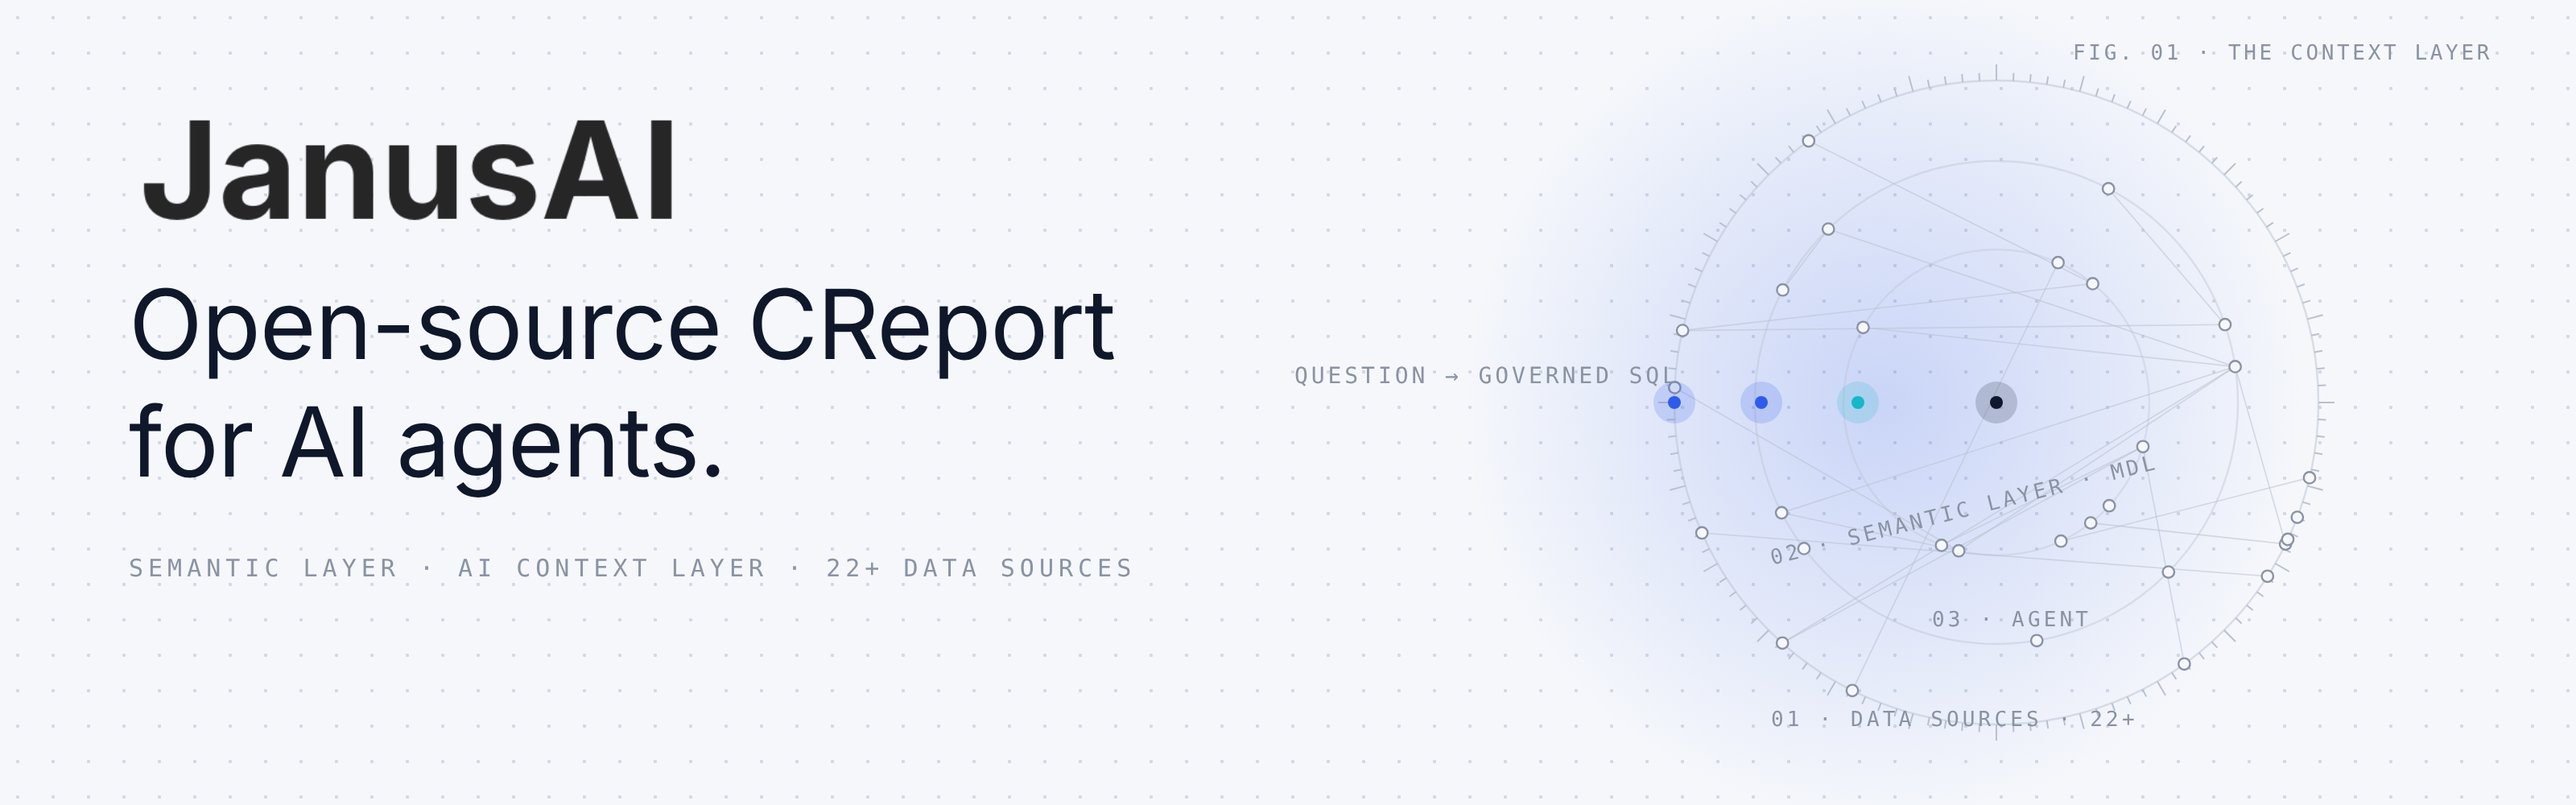
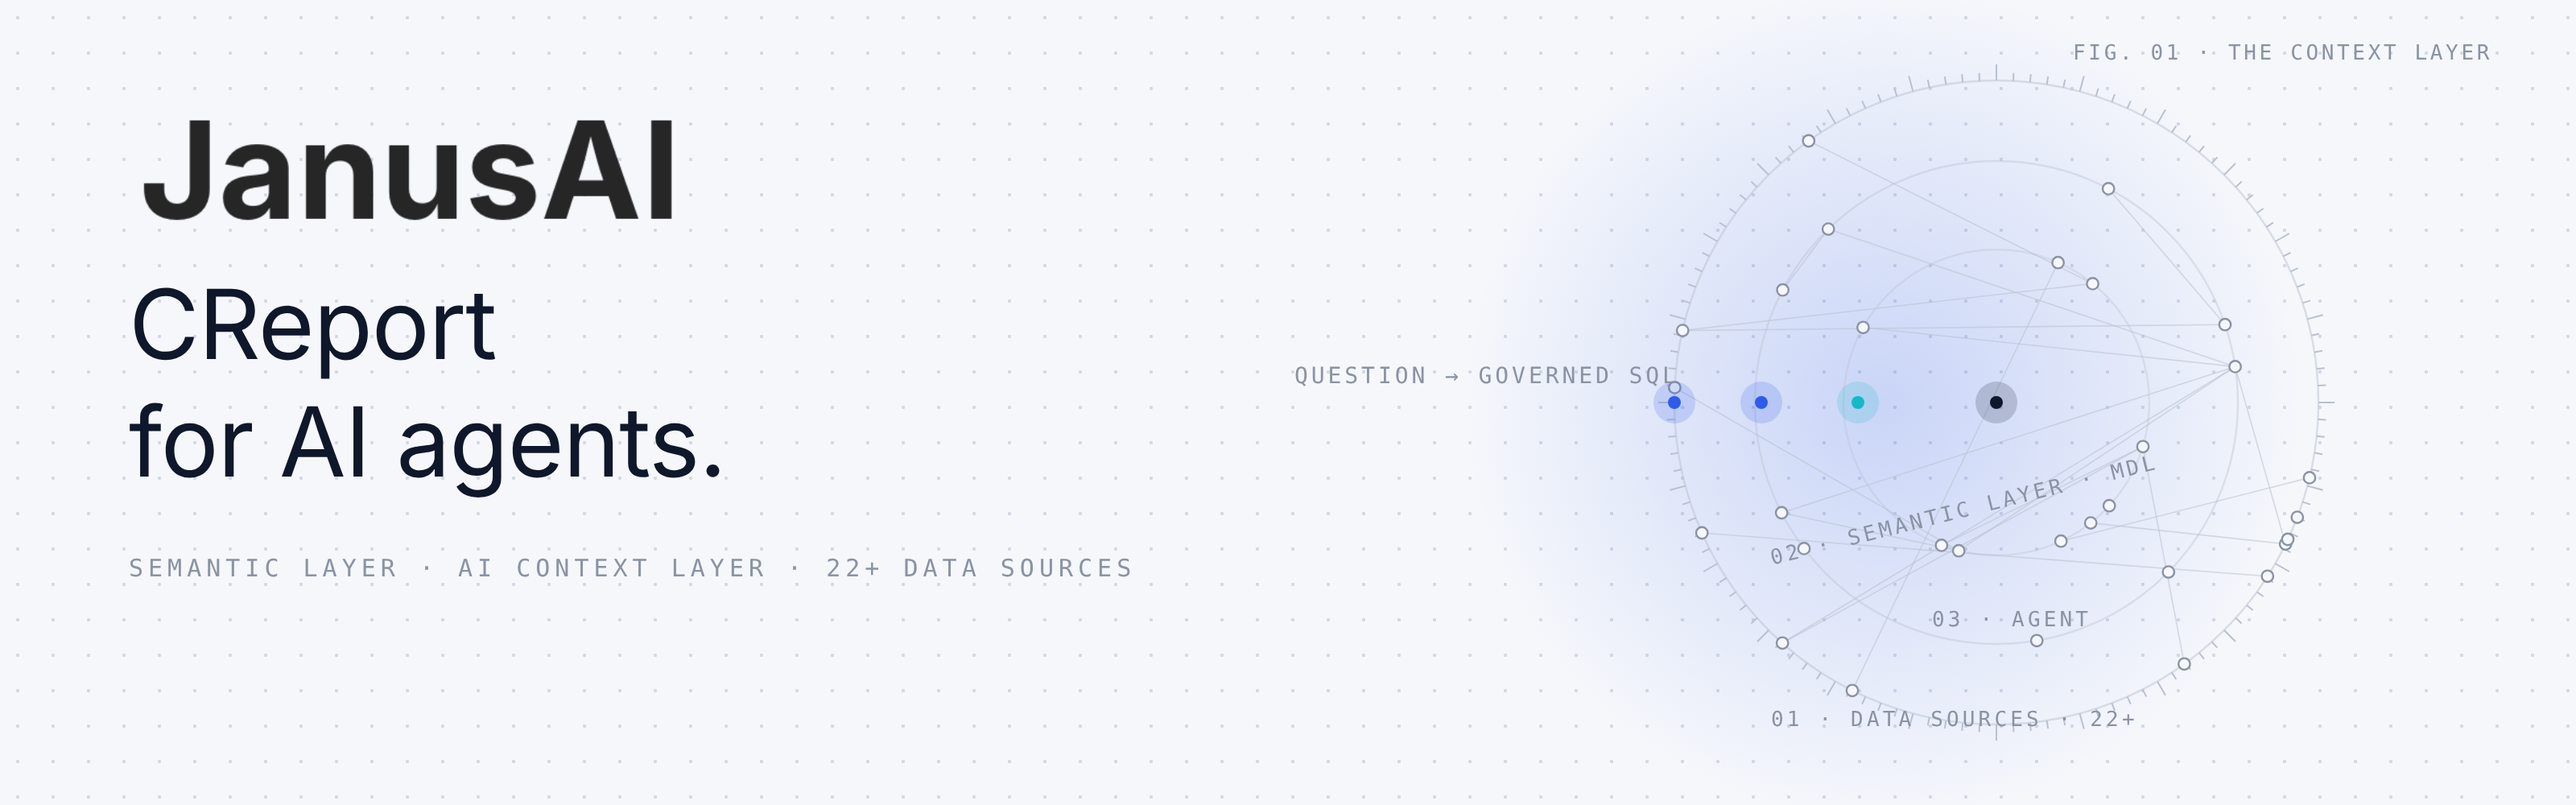
docs: remove open-source wording from text and README images
Drop open-source from the READMEs, docs, agent taglines, and the CLAUDE project
summary. Rename the open-source vs commercial page's edition to Community.
Regenerate the README banner and architecture images and the draw.io source
without the open-source footer and tagline.

Claude-Session: https://claude.ai/code/session_01BkXiZyAvrb5AEnaFz3NP9n

Changed region(s): [[0.0625, 0.341, 0.4375, 0.465]]

diff --git a/docs/diagrams/build_janus_architecture.py b/docs/diagrams/build_janus_architecture.py
@@ -149,7 +149,7 @@ add(f"rounded=0;fillColor={LINE};strokeColor=none;", 100, 906, 1080, 1, "")
 mono_text(100, 920, 200, "0 SOURCES", size=12)
 mono_text(540, 920, 200, "11", size=12, align="center")
 mono_text(980, 920, 200, "22+ CONNECTORS", size=12, align="right")
-mono_text(680, 956, 500, "COME BUILD OPEN CREPORT WITH US  ·  ★ STAR THE REPO", size=12, align="right")
+mono_text(680, 956, 500, "COME BUILD CREPORT WITH US  ·  ★ STAR THE REPO", size=12, align="right")
 
 xml = ('<mxfile host="Claude" modified="2026-10-13" agent="drawio-reconstruction" version="24.0.0">'
        '<diagram name="JanusAI architecture" id="arch">'

diff --git a/docs/core/concepts/oss_vs_commercial.md b/docs/core/concepts/oss_vs_commercial.md
@@ -1,16 +1,16 @@
 ---
-sidebar_label: Open source vs Commercial
+sidebar_label: Community vs Commercial
 ---
 
-# Open source vs Commercial
+# Community vs Commercial
 
-Janus AI open source is the full engine: free, self-hosted, and driven by one engineer or agent through the CLI and SDK.
+Janus AI community edition is the full engine: free, self-hosted, and driven by one engineer or agent through the CLI and SDK.
 
 Janus AI Commercial is the same engine built for a team. It runs as a hosted cloud service or as a self-hosted enterprise deployment, and it adds a web UI, accounts, managed access control, integrations, and support. Full overview: [Janus AI Commercial](/cp/overview).
 
 ## Which one fits
 
-**Solo, in the terminal.** One engineer or an AI agent, working through the CLI, SDK, and Git. Open source is all you need.
+**Solo, in the terminal.** One engineer or an AI agent, working through the CLI, SDK, and Git. The community edition is all you need.
 
 **A data team.** Several people need governed access with roles and SSO, and non-technical teammates want to ask questions in a browser, Slack, or Teams. This is where Commercial earns its place.
 
@@ -18,7 +18,7 @@ Janus AI Commercial is the same engine built for a team. It runs as a hosted clo
 
 ## Feature comparison
 
-| Capability | Open source | Commercial |
+| Capability | Community | Commercial |
 | --- | :---: | :---: |
 | Fully managed cloud | ❌ | ✅ |
 | CLI and SDK for your own agents | ✅ | ✅ |
@@ -36,7 +36,7 @@ Janus AI Commercial is the same engine built for a team. It runs as a hosted clo
 
 ## What Commercial adds
 
-Open source is the full engine. Commercial adds the team layer on top:
+The community edition is the full engine. Commercial adds the team layer on top:
 
 - **Runs itself.** Hosted cloud, or self-hosted enterprise, so no one has to operate the stack.
 - **Built for people, not just agents.** A web UI plus Slack and Teams, so non-technical teammates can ask questions.
@@ -47,4 +47,4 @@ Open source is the full engine. Commercial adds the team layer on top:
 
 ## Talk to us
 
-See [Janus AI Commercial](/cp/overview) for details and to reach the team. Open source stays first-class either way.
+See [Janus AI Commercial](/cp/overview) for details and to reach the team. The community edition stays first-class either way.

diff --git a/README.zh-CN.md b/README.zh-CN.md
@@ -2,11 +2,11 @@
 <a href="https://crossnow.cn">
   <picture>
     <source media="(prefers-color-scheme: dark)" srcset="./assets/janus-ai-banner-dark.zh-CN.png">
-    <img src="./assets/janus-ai-banner.zh-CN.png" width="100%" alt="JanusAI：面向 AI 智能体的开源 CReport">
+    <img src="./assets/janus-ai-banner.zh-CN.png" width="100%" alt="JanusAI：面向 AI 智能体的 CReport">
   </picture>
 </a>
 
-### 面向 AI 智能体的开源 CReport
+### 面向 AI 智能体的 CReport
 
 **让你的智能体生成受治理的 SQL、部署仪表盘，并把业务定义保存在 Git 中，覆盖 22+ 种数据源。**
 
@@ -22,7 +22,7 @@
 
 ## JanusAI 是什么
 
-JanusAI 是开源的**生成式 BI（CReport）引擎**。它为你已经在用的 AI 智能体（Claude Code、Cursor、MCP 客户端、LangChain）提供一个**受治理的语义层**和一个 **AI 上下文层**，让它们把业务问题转换为正确的 SQL、把结果发布为可分享的仪表盘，并始终处在你设定的护栏之内。
+JanusAI 是**生成式 BI（CReport）引擎**。它为你已经在用的 AI 智能体（Claude Code、Cursor、MCP 客户端、LangChain）提供一个**受治理的语义层**和一个 **AI 上下文层**，让它们把业务问题转换为正确的 SQL、把结果发布为可分享的仪表盘，并始终处在你设定的护栏之内。
 
 Schema 只能告诉智能体数据存放在哪里。Janus 则告诉它数据**意味着什么**：经过批准的指标定义、枚举值、单位、关联关系、示例，以及埋在文档和聊天记录里的隐性知识。这些内容都以可审阅的 YAML 和 Markdown 文件保存在你自己的代码仓库中。
 

diff --git a/README.md b/README.md
@@ -2,11 +2,11 @@
 <a href="https://crossnow.cn">
   <picture>
     <source media="(prefers-color-scheme: dark)" srcset="./assets/janus-ai-banner-dark.png">
-    <img src="./assets/janus-ai-banner.png" width="100%" alt="JanusAI: open-source CReport for AI agents">
+    <img src="./assets/janus-ai-banner.png" width="100%" alt="JanusAI: CReport for AI agents">
   </picture>
 </a>
 
-### Open-source CReport for AI agents
+### CReport for AI agents
 
 **Your agents generate governed SQL, deploy dashboards, and keep business definitions in Git, across 22+ data sources.**
 
@@ -22,7 +22,7 @@
 
 ## What JanusAI is
 
-JanusAI is the open-source **generative BI (CReport) engine**. It gives the AI agents you already use (Claude Code, Cursor, MCP clients, LangChain) a **governed semantic layer** and an **AI context layer**, so they turn business questions into correct SQL, ship the answer as a shareable dashboard, and stay inside your guardrails.
+JanusAI is the **generative BI (CReport) engine**. It gives the AI agents you already use (Claude Code, Cursor, MCP clients, LangChain) a **governed semantic layer** and an **AI context layer**, so they turn business questions into correct SQL, ship the answer as a shareable dashboard, and stay inside your guardrails.
 
 Schemas tell an agent where data lives. Janus tells it what the data *means*: approved metric definitions, enums, units, joins, worked examples, and the tribal knowledge buried in docs and chat threads. All of it lives as reviewable YAML and Markdown in a repo you own.
 

diff --git a/.claude/CLAUDE.md b/.claude/CLAUDE.md
@@ -4,7 +4,7 @@ This file provides guidance to Claude Code (claude.ai/code) when working with co
 
 ## Project Overview
 
-Janus is an open-source semantic engine for MCP clients and AI agents. It translates SQL queries through a semantic layer (MDL — Modeling Definition Language) and executes them against 22+ data sources (PostgreSQL, BigQuery, Snowflake, Spark, etc.). The Rust engine is powered by Apache DataFusion (upstream, crates.io v55).
+Janus is a semantic engine for MCP clients and AI agents. It translates SQL queries through a semantic layer (MDL — Modeling Definition Language) and executes them against 22+ data sources (PostgreSQL, BigQuery, Snowflake, Spark, etc.). The Rust engine is powered by Apache DataFusion (upstream, crates.io v55).
 
 The previous JanusAI services (`janus-ui/`, `janus-ai-service/`, `janus-launcher/`, `docker/`, `deployment/`) were moved to the `legacy/v1` branch (tag `v1-final`) as of the janus-engine import. Active development is focused on the Open Context Engine.
 

diff --git a/docs/core/concepts/stack_position.md b/docs/core/concepts/stack_position.md
@@ -74,7 +74,7 @@ Profiles separate connection credentials from project definitions. The same MDL 
 
 Replacing your stack to get an AI agent that queries it well is a fast way to make nobody happy. The pattern Janus AI was designed around is the inverse: **leave the existing stack in place, add one inspectable layer on top, give every agent the same governed surface**.
 
-That is also why Janus AI is open source. Business context is too important to lock inside a vendor product. Your MDL, examples, query history, and mapping decisions should live in your repo, under your team's review.
+Business context is too important to lock inside a vendor product. Your MDL, examples, query history, and mapping decisions should live in your repo, under your team's review.
 
 ## See also
 

diff --git a/core/janus-core/core/README.zh-CN.md b/core/janus-core/core/README.zh-CN.md
@@ -1,7 +1,7 @@
 # janus-semantic-core
 🌐 [English](./README.md) · **简体中文**
 
-[Janus AI](https://crossnow.cn) 的 Rust 语义引擎核心 —— 一个面向 MCP 客户端和 AI 智能体的开源语义层。
+[Janus AI](https://crossnow.cn) 的 Rust 语义引擎核心 —— 一个面向 MCP 客户端和 AI 智能体的语义层。
 
 `janus-semantic-core` 接收一个 **MDL（Modeling Definition Language，建模定义语言）** manifest 以及一条 SQL 查询，并通过语义层对查询进行改写：解析模型、关系、指标和视图，应用行级与列级访问控制，最终生成优化后的逻辑计划。它基于 [Apache DataFusion](https://datafusion.apache.org/) 构建。
 

diff --git a/docs/core/zh-CN/concepts/why_janus.md b/docs/core/zh-CN/concepts/why_janus.md
@@ -4,7 +4,7 @@ sidebar_label: 为什么选择 Janus？（及其对比）
 
 # 为什么选择 Janus？（及其对比）
 
-Janus AI 是**开源的 CReport 引擎**：它让 AI 智能体能够在值得信赖的上下文层之上生成、部署并治理商业智能（BI）。本页是坦诚版本：说明 Janus 是为了什么、它**不是**什么，以及它与其临近工具有何不同。
+Janus AI 是 **CReport 引擎**：它让 AI 智能体能够在值得信赖的上下文层之上生成、部署并治理商业智能（BI）。本页是坦诚版本：说明 Janus 是为了什么、它**不是**什么，以及它与其临近工具有何不同。
 
 ## Janus 要解决的问题
 

diff --git a/core/janus-core/benchmarks/README.md b/core/janus-core/benchmarks/README.md
@@ -1,7 +1,7 @@
 # Janus Core Benchmarks
 🌐 **English** · [简体中文](./README.zh-CN.md)
 
-This crate contains benchmarks for the Janus core library, based on industry-standard open source benchmarks, designed to help measure and improve the performance of Janus core.
+This crate contains benchmarks for the Janus core library, based on industry-standard benchmarks, designed to help measure and improve the performance of Janus core.
 
 # Supported Benchmarks
 

diff --git a/docs/core/concepts/why_janus.md b/docs/core/concepts/why_janus.md
@@ -4,7 +4,7 @@ sidebar_label: Why Janus? (and how it compares)
 
 # Why Janus? (and how it compares)
 
-Janus AI is the **open-source CReport engine**: it lets AI agents generate, deploy,
+Janus AI is the **CReport engine**: it lets AI agents generate, deploy,
 and govern business intelligence on top of a context layer they can trust. This
 page is the honest version: what Janus is for, what it is *not*, and how it
 differs from the tools it sits near.
